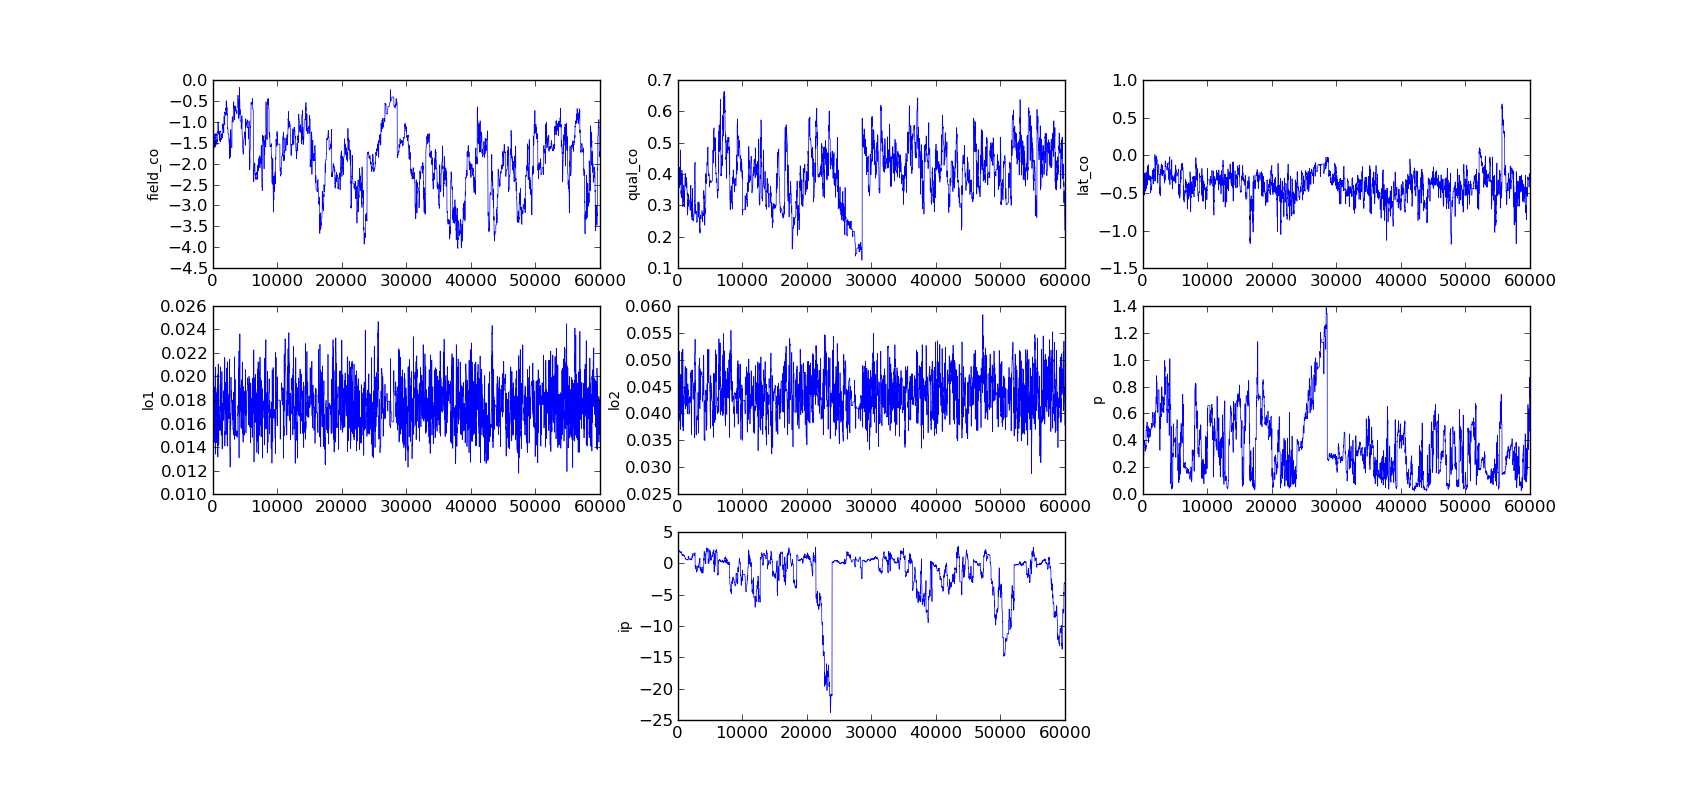
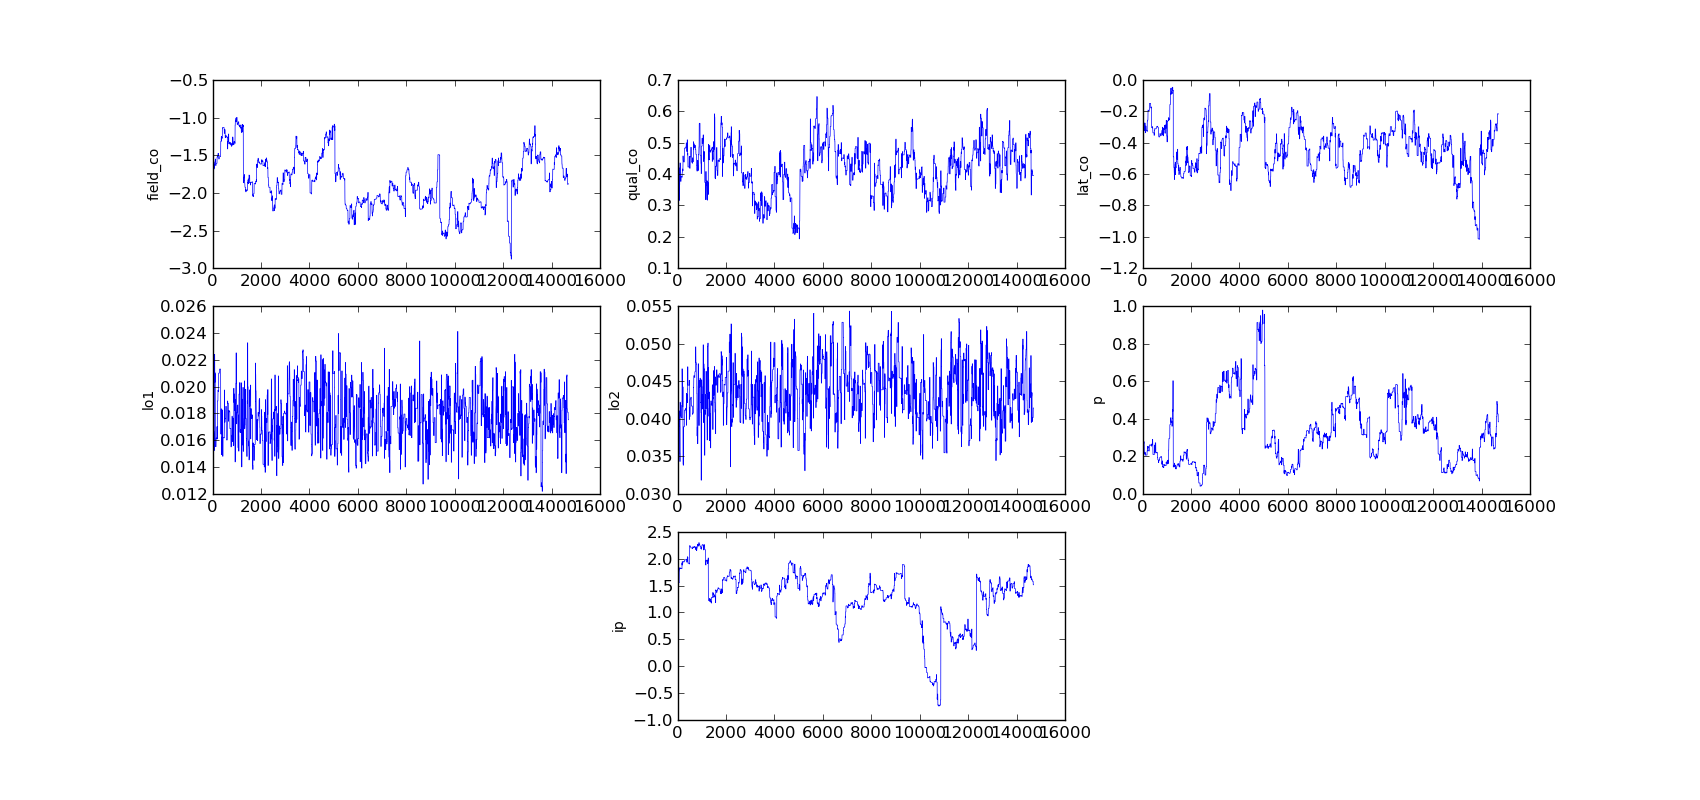
made changes for sorting on quality, think everything is working

diff --git a/val_defs.py b/val_defs.py
@@ -17,7 +17,7 @@ def tree():
 def val_init(big_mov_params, dep_stats, dis, ip, bd, init, lp, n9, is9):
     # initializes value function iteration
     vals, trans, itrans, mlik = vm.call_parallel(big_mov_params, dep_stats,
-                                           dis, ip, bd, init, lp, n9, is9)
+                                            dis, ip, bd, init, lp, n9, is9)
     return vals, trans, itrans, mlik
 
 def mins(v, dat, p):
@@ -35,7 +35,7 @@ def ft(dat):
     out = dat.apply(lambda x: dat['v1'], axis = 1)
     return out
 
-def calc_exp(currents, w, p):
+def calc_exp(currents, w, dp, p):
     # caculates expectation part of value function
 
     dat = pd.DataFrame({'v1': currents, 'w1': w})
@@ -44,28 +44,27 @@ def calc_exp(currents, w, p):
     exp_mat = currents.transpose() \
             + max_stat * (1 + 1 / (float(p) - 1) * min_stat)
     exp_mat = exp_mat.as_matrix()
-    np.fill_diagonal(exp_mat,0)
+    exp_mat = exp_mat * dp
     exp = pd.Series(exp_mat.sum(0), index=currents.index)
-    exp = exp / (len(currents)-1)
     return exp
 
-def val_eval(currents, w, lam, dis, p):
+def val_eval(currents, w, dp, lam, dis, p):
     # This function evaluates the value function
 
     # EXPECTATION 
-    exp = calc_exp(currents, w, p)
+    exp = calc_exp(currents, w, dp, p)
 
     # REST
     new = dis * (1 - lam) / (1 - dis * (1 - lam)) * w\
             + dis * lam / (1 - dis * (1 - lam)) * exp
     return new
 
-def val_loop_inner(current, w, lam, dis, p):
+def val_loop_inner(current, w, dp, lam, dis, p):
     # runs actual val loop
     dif = 1
     iters = 0
     while dif > 1e-1 and iters < 100:
-        new = val_eval(current, w, lam, dis, p)
+        new = val_eval(current, w, dp, lam, dis, p)
         dif = pow(new - current,2)
         dif = dif.sum()
         current = new.copy()
@@ -88,7 +87,7 @@ def calc_trans(current, w, lam, dis, p):
     trans = pd.DataFrame(trans_mat,index=ind,columns=cols)
     return trans
 
-def val_loop(w, lam, dis, p, ip, bd, init='nope'):
+def val_loop(w, dp, lam, dis, p, ip, bd, init='nope'):
     # This function calls the value function loop
 
     # INITIAL GUESS
@@ -98,7 +97,7 @@ def val_loop(w, lam, dis, p, ip, bd, init='nope'):
         current = w.apply(lambda x:  x)
 
     # MAIN LOOP
-    new = val_loop_inner(current, w, lam, dis, p)
+    new = val_loop_inner(current, w, dp, lam, dis, p)
 
     # GET TRANSITIONS
     trans = calc_trans(new, w, lam, dis, p)
@@ -118,6 +117,21 @@ def wd(ind, dep):
     out = dep.apply(lambda x: pow(ind - x,2))
     return out
 
+def calc_depprob(mp, dep, qual, field, lat, qp):
+    # returns probability of getting an offer from
+    # each dep for qual
+
+    # EASY PARAMETER REFERENCE
+    q = mp['qual']
+
+    qual_dif = dep['dep_qual'].apply(lambda x:
+            math.exp(q * (qual - x) ** 2))
+    vs = qual_dif.values
+    depprobs = np.vstack(tuple([vs] * len(vs)))
+    np.fill_diagonal(depprobs,0)
+    depprobs = depprobs / depprobs.sum(1)
+    return depprobs
+
 def calc_wage(mp, dep, qual, field, lat, qp):
     # returns wage at each of the departments
 
@@ -127,7 +141,8 @@ def calc_wage(mp, dep, qual, field, lat, qp):
     l = mp['lat']
 
     # CALCULATE WAGE
-    wq = q * dep['dep_qual']
+    # wq = q * dep['dep_qual']
+    wq = 0
     wf = f * wd(field, dep['dmean'])
     # quadrature points 
     wl = l * dep['dmean'] * qp[lat]

diff --git a/est_loop.py b/est_loop.py
@@ -78,8 +78,7 @@ def update_movs(big_mov_params, ip, rnd):
     # get user jump size
     try:
         j = pd.read_csv('jump_size.csv').set_index('block')
-        slo1 = list(j.loc['mov_lo1'])[0]
-        slo2 = list(j.loc['mov_lo2'])[0]
+        slo1 = list(j.loc['mov_lo'])[0]
         sp = list(j.loc['mov_p'])[0]
         sq = list(j.loc['mov_q'])[0]
         sf = list(j.loc['mov_f'])[0]
@@ -87,12 +86,11 @@ def update_movs(big_mov_params, ip, rnd):
         sip = list(j.loc['mov_ip'])[0]
     except Exception as e:
         print e
-        slo1, slo2, sp, sq, sf, sl, sip\
-                = 1, 1, 1, 1, 1, 1, 1
+        slo1, sp, sq, sf, sl, sip\
+                = 1, 1, 1, 1, 1, 1
 
     [mov_params, lam, p] = big_mov_params
-    lam[0] = lam[0] + random.gauss(0, rnd['lo1'] * slo1)
-    lam[1] = lam[1] + random.gauss(0, rnd['lo2'] * slo2)
+    lam = lam + random.gauss(0, rnd['lo'] * slo1)
     p = 1 + math.exp(math.log(p - 1) + random.gauss(0,rnd['p'] * sp))
     mov_params = mov_params.astype('float64')
     mov_params['qual'] = mov_params['qual']\
@@ -334,6 +332,6 @@ def write_me(cit_params, big_mov_params, lp, ip, out_writer, out_file):
     # writes to file
     [movparams, lam, p] = big_mov_params
     out_writer.writerow(cit_params[0] + cit_params[1] + [cit_params[2]]
-            + list(movparams) + lam + [p] + lp + [ip])
+            + list(movparams) + [lam] + [p] + lp + [ip])
     out_file.flush()
     return 0

diff --git a/adapt.py b/adapt.py
@@ -13,7 +13,7 @@ def get_cov(snip, k, block_name):
         s = 2.38 ** 2 # optimal scaling factor 
         col_names = ['alpha', 'alphay', 'gam_0', 'gam_1',
                      'bet', 'field_co', 'lat_co',
-                     'qual_co', 'lo1', 'lo2', 'p',
+                     'qual_co', 'lo','p',
                      'lp1', 'lp2', 'lp3', 'ip']
         if k < 5000:
             dat = pd.read_csv('old_out.csv', header=None,
@@ -50,7 +50,7 @@ def get_cov(snip, k, block_name):
             loc_rnd = 0
         else:
             locdat = dat[['field_co', 'lat_co', 'qual_co',
-                          'lo1', 'lo2', 'p', 'ip']]
+                          'lo', 'p', 'ip']]
             locdat['p'] = locdat['p'].apply(lambda x: math.log(x - 1))
             locdat['ip'] = locdat['ip'].apply(lambda x: math.log(x))
 
@@ -66,7 +66,7 @@ def get_cov(snip, k, block_name):
                 loc_rnd = (1 - b) * mvn(np.zeros(d), loc_cov * s / float(d))\
                         + b * mvn(np.zeros(d), np.identity(d) * s / float(d))
             loc_rnd = pd.Series(loc_rnd, index=['field_co', 'lat_co', 'qual_co',
-                                                'lo1', 'lo2', 'p', 'ip'])
+                                                'lo', 'p', 'ip'])
             print loc_rnd
             cit_rnd = 0
     else:

diff --git a/val_mp.py b/val_mp.py
@@ -180,7 +180,7 @@ def val_calc(qual, field, lat, big_mov_params,
     """calculates a single value function"""
 
     # UNPACK
-    [mov_params, lam_param, p] = big_mov_params
+    [mov_params, lam, p] = big_mov_params
     
     # QUADRATURE POINTS 
     qa = [4 * math.sqrt(3 - 2 * math.sqrt(6 / float(5))) / float(7),
@@ -190,17 +190,18 @@ def val_calc(qual, field, lat, big_mov_params,
     # CALCULATE WAGES
     wage = vd.calc_wage(mov_params, dep_stats,
                      qual, field, lat, qp)
-    lam = lam_param[0] + qual * lam_param[1]
+    dp = vd.calc_depprob(mov_params, dep_stats,
+                     qual, field, lat, qp)
     try:
         sp = init[qual][field][lat]
-        vals, trans, itrans = vd.val_loop(wage, lam, dis,
+        vals, trans, itrans = vd.val_loop(wage, dp, lam, dis,
                                   p, ip, bd, sp)
     except Exception as e:
         print 'WARNING: Value function start point error,\
                  file val_defs.py, function val_init'
         print e
         try:
-            vals, trans, itrans = vd.val_loop(wage, lam, dis,
+            vals, trans, itrans = vd.val_loop(wage, dp, lam, dis,
                                       p, ip, bd)
         except Exception as e:
             print 'WARNING: reading vals and trans from saves'

diff --git a/run_discrete.py b/run_discrete.py
@@ -17,12 +17,12 @@ if __name__ == '__main__':
     gam = [0.034228248703075864,0.098392799712779644]
     
     # INITIAL MOV PARAMETERS 
-    mov_params = pd.Series({'qual': 0.46218713564513042, 'field': -1.8773030907893029, 'lat': -0.26855264979563331})
+    mov_params = pd.Series({'qual': -0.46218713564513042, 'field': -1.8773030907893029, 'lat': -0.26855264979563331})
     
     # OTHER PARAMETERS 
     lp = [-26.251278310241567,61.02761089372683,1.0325140952129204] #latent type probability,
     # two mean parameters and a standard deviation
-    lo = [0.016572481018500451,0.040909561164198333]  #offer arrival rate,
+    lo = 0.046572481018500451  #offer arrival rate,
     # base and qual dependence
     p = 1.282008407975466 #signing bonus distribution parameter
     ip = 4.044689899777988 #instrument parameter (affects 1991 wages)

diff --git a/ins_reg/ir_prep.py b/ins_reg/ir_prep.py
@@ -6,7 +6,7 @@ import pandas as pd
 dat = pd.read_pickle('mov_dat.pickle')
 bd  = pd.read_pickle('budget_def.pickle')
 bd  = pd.DataFrame(bd).reset_index()
-bd.columns = ['dep','bd']
+bd.columns = ['dep','bd','isstate']
 dat = pd.merge(dat, bd, how='left')\
         .fillna(value=0)
 
@@ -18,4 +18,3 @@ aut_pan = pd.merge(aut_pan, bd, how='left')
 aut_pan['bd'] = aut_pan['bd'].fillna(value=0)
 
 aut_pan.to_csv('aut_pan.csv')
-import pdb; pdb.set_trace()

diff --git a/discrete.py b/discrete.py
@@ -49,6 +49,8 @@ def main(cit_params, big_mov_params, lp, ip):
                                       mov_dat_not91, mov_dat91)
     vd.reset(init, trans, itrans, mlik)
 
+    import pdb; pdb.set_trace()
+
     cit_liks, fc_liks, nocit_liks\
             = cm.call_parallel(cit_params, dep_year,
                                lp, citers, first_cits, nocits)

diff --git a/from_ham/make_geltest.py b/from_ham/make_geltest.py
@@ -19,7 +19,7 @@ def load_dat(name, col_no, log=False, ppf=False):
         if ppf:
             new = new.apply(lambda x: norm.ppf(x))
         mid = round(new.count() / 2)
-        mid = 0
+        # mid = 0
         liks.append(new[mid:])
         mliks.append(liks[k].describe().loc['mean'])
         min_n = min(liks[k].count(), min_n)
